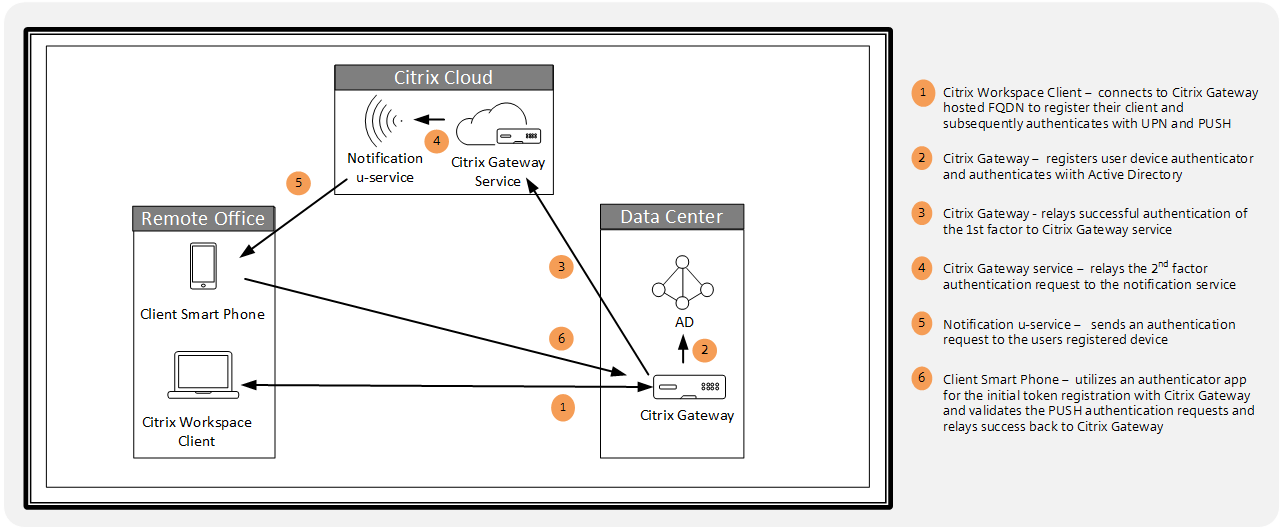
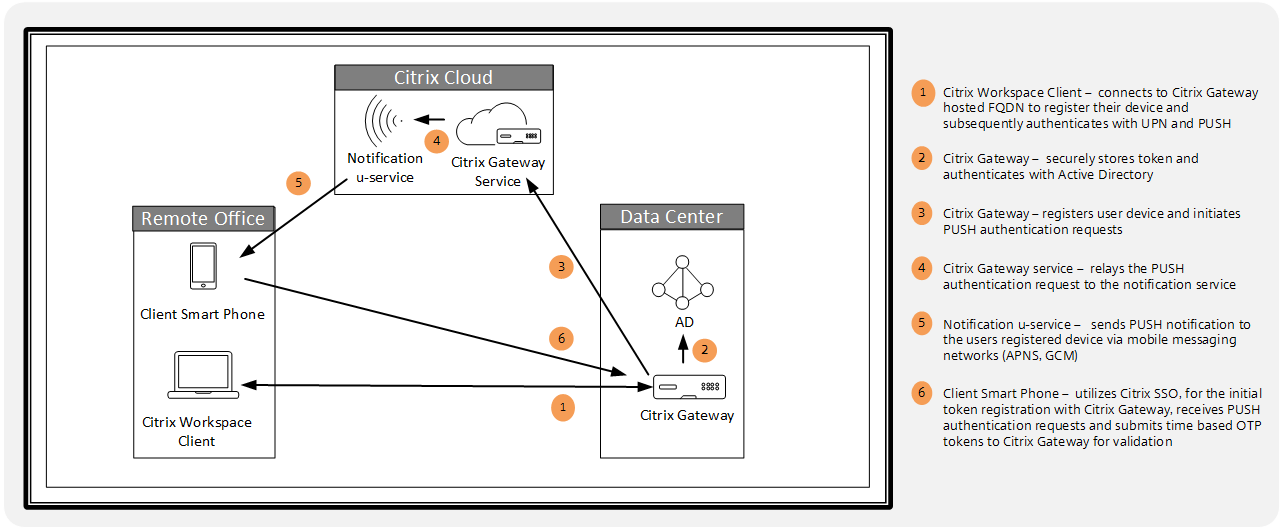
updates

diff --git a/en-us/tech-zone/learn/poc-guides/nfactor-citrix-gateway-push-token.md b/en-us/tech-zone/learn/poc-guides/nfactor-citrix-gateway-push-token.md
@@ -12,7 +12,7 @@ description: Learn how to implement a Proof of Concept environment consisting of
 
 ## Introduction
 
-Time Based One Time Passwords (TOTP) are an increasingly common method to provide an authentication that can increase security posture with other factors. TOTP with PUSH takes advantage of mobile devices by allowing users to receive and accept authentication validation requests at their fingertips. The exchange is secured by applying a hash to a shared key, distributed during setup.
+Multi factor authentication is one of the best ways to verify identity and increase security posture. PUSH notifications for One Time Passwords (OTP) takes advantage of mobile devices. It allows users to receive and accept authentication validation requests at their fingertips. The exchange is secured by applying a hash to a shared key, distributed during setup.
 
 Citrix Gateway supports push notifications for OTP and, can provide authentication for various services including web services, VPN, and Citrix Virtual Apps and Desktops. In this POC Guide we demonstrate using it for authentication in a Citrix Virtual Apps and Desktops environment.
 
@@ -20,7 +20,7 @@ Citrix Gateway supports push notifications for OTP and, can provide authenticati
 
 ## Overview
 
-This guide demonstrates how to implement a Proof of Concept environment using two factor authentication with Citrix Gateway. It uses LDAP to validate Active Directory credentials as the first factor and use Citrix Cloud Push Authentication as the second factor. It uses a Citrix Virtual Apps and Desktops published virtual desktop to validate connectivity.
+This guide demonstrates how to implement a Proof of Concept environment using two factor authentication with Citrix Gateway. It uses LDAP to validate Active Directory credentials as the first factor and use Push Authentication as the second factor. It uses a Citrix Virtual Apps and Desktops published virtual desktop to validate connectivity.
 
 It makes assumptions about the completed installation and configuration of the following components:
 
